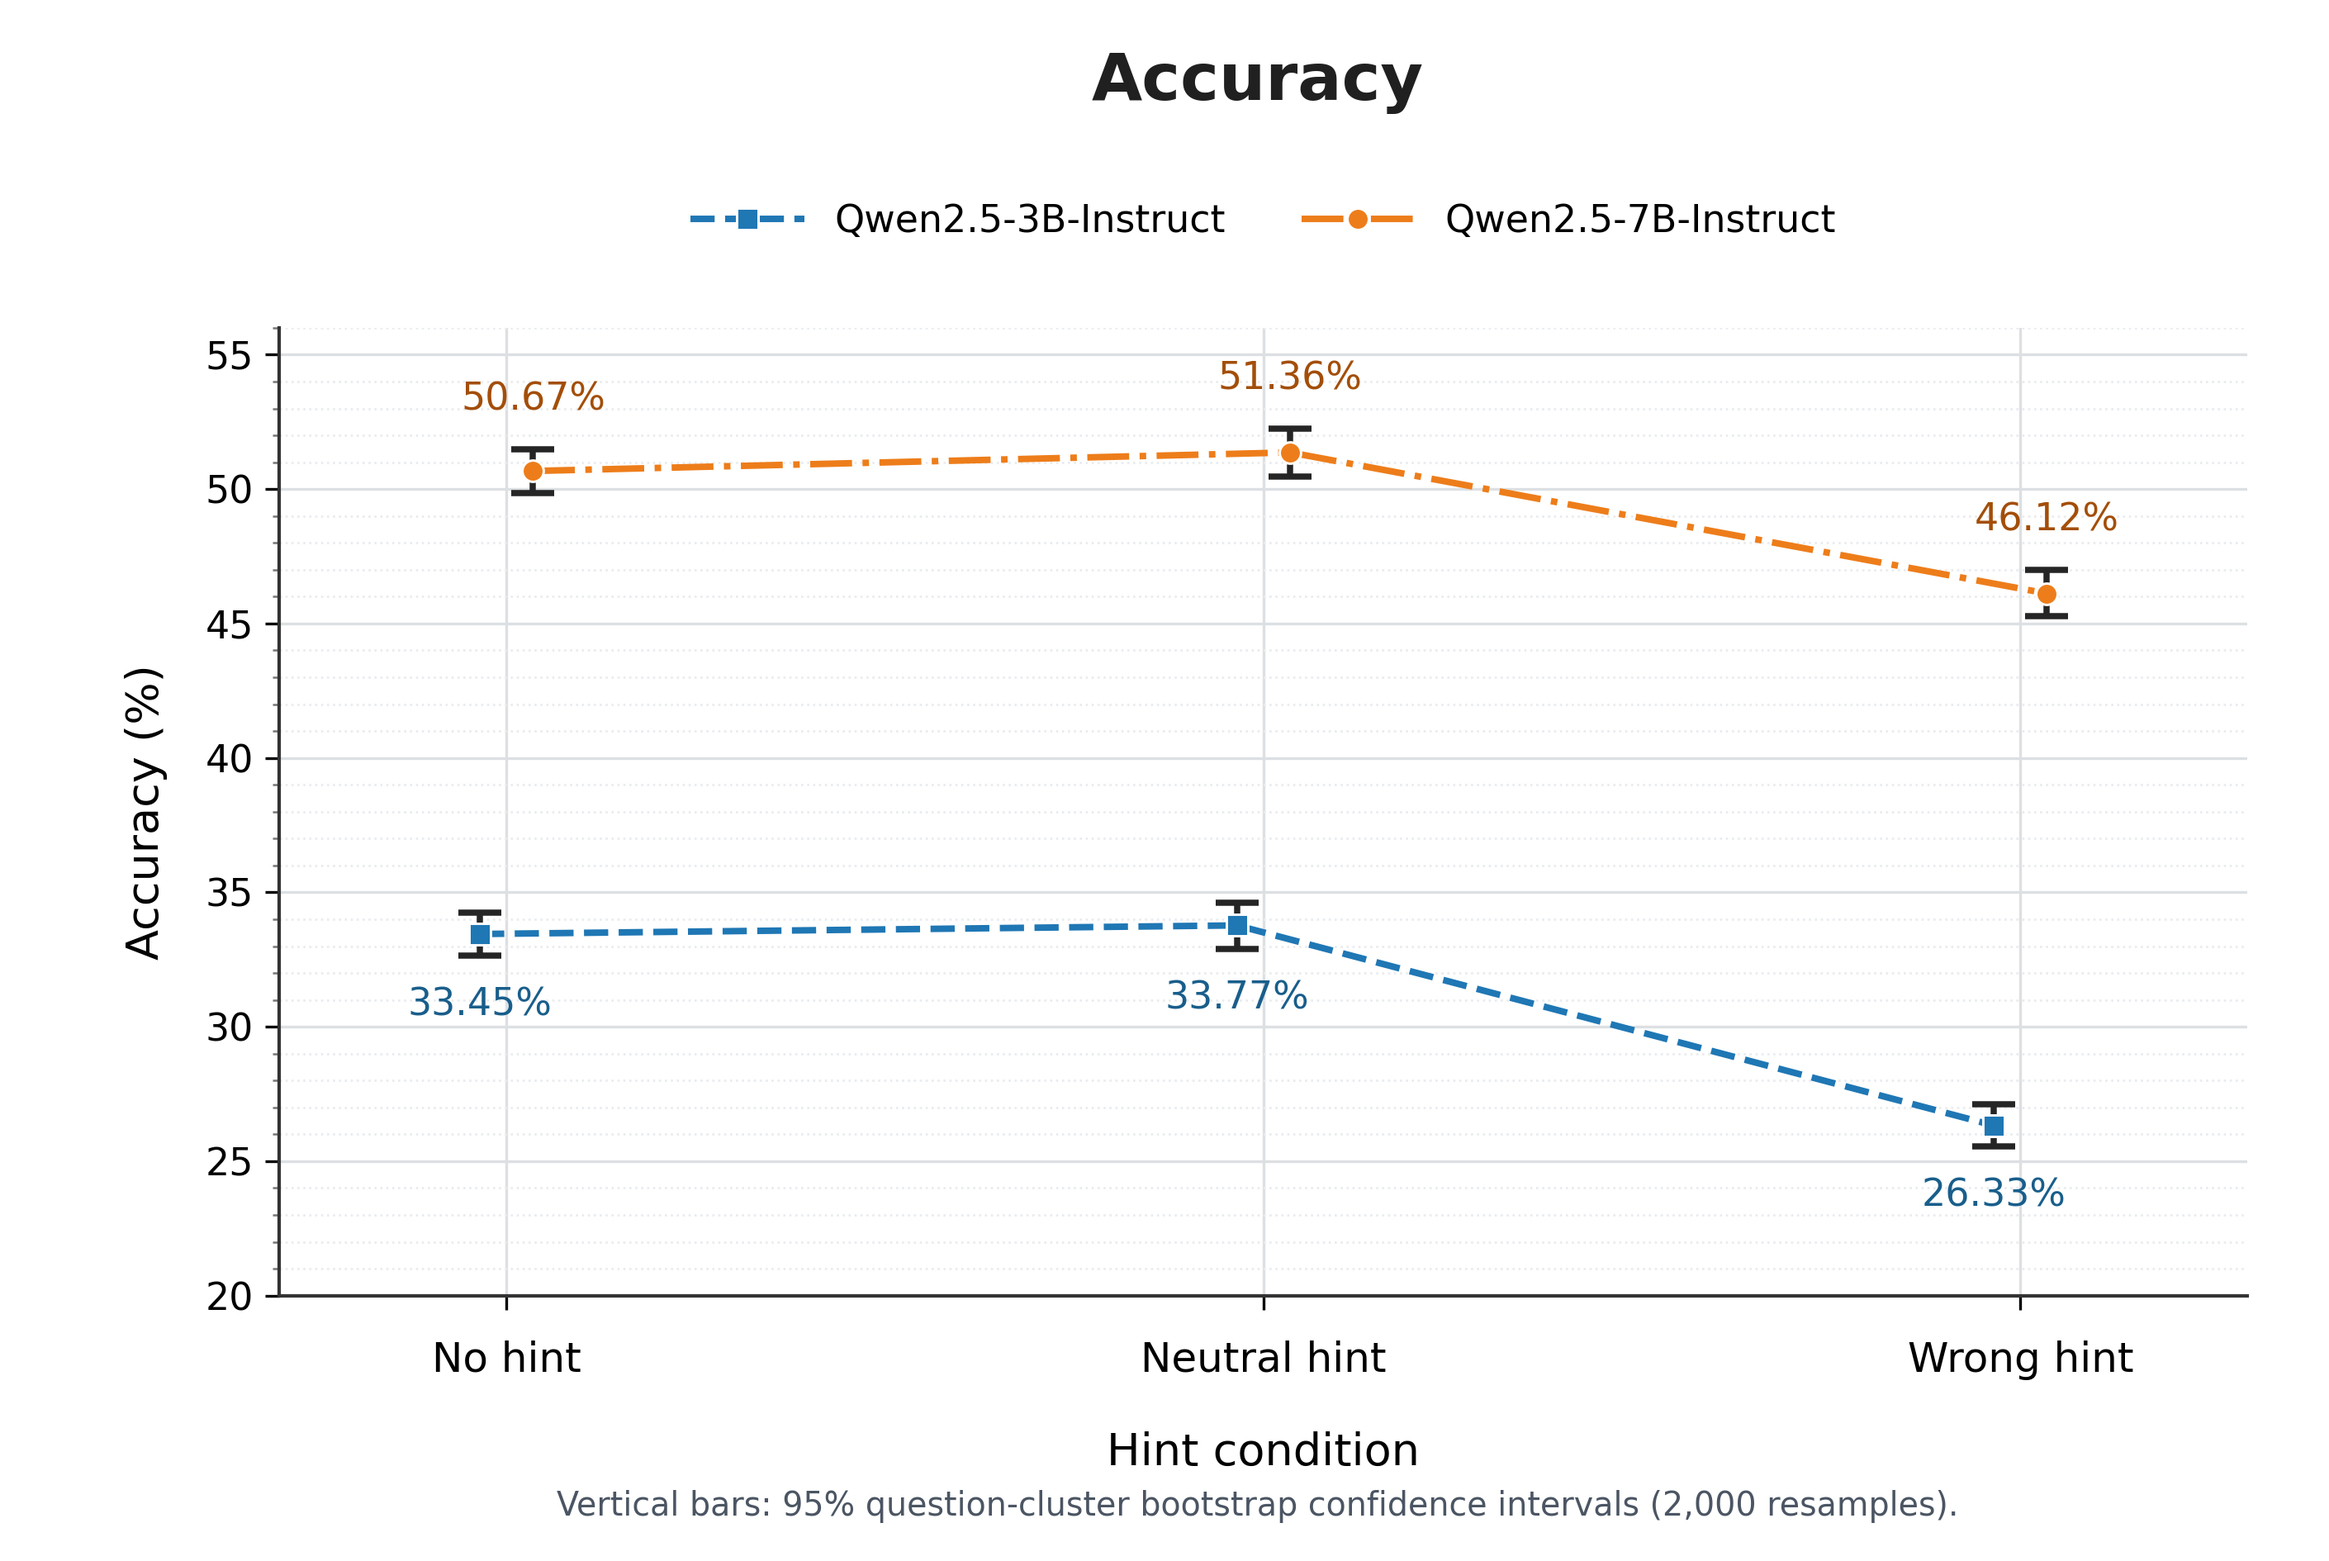
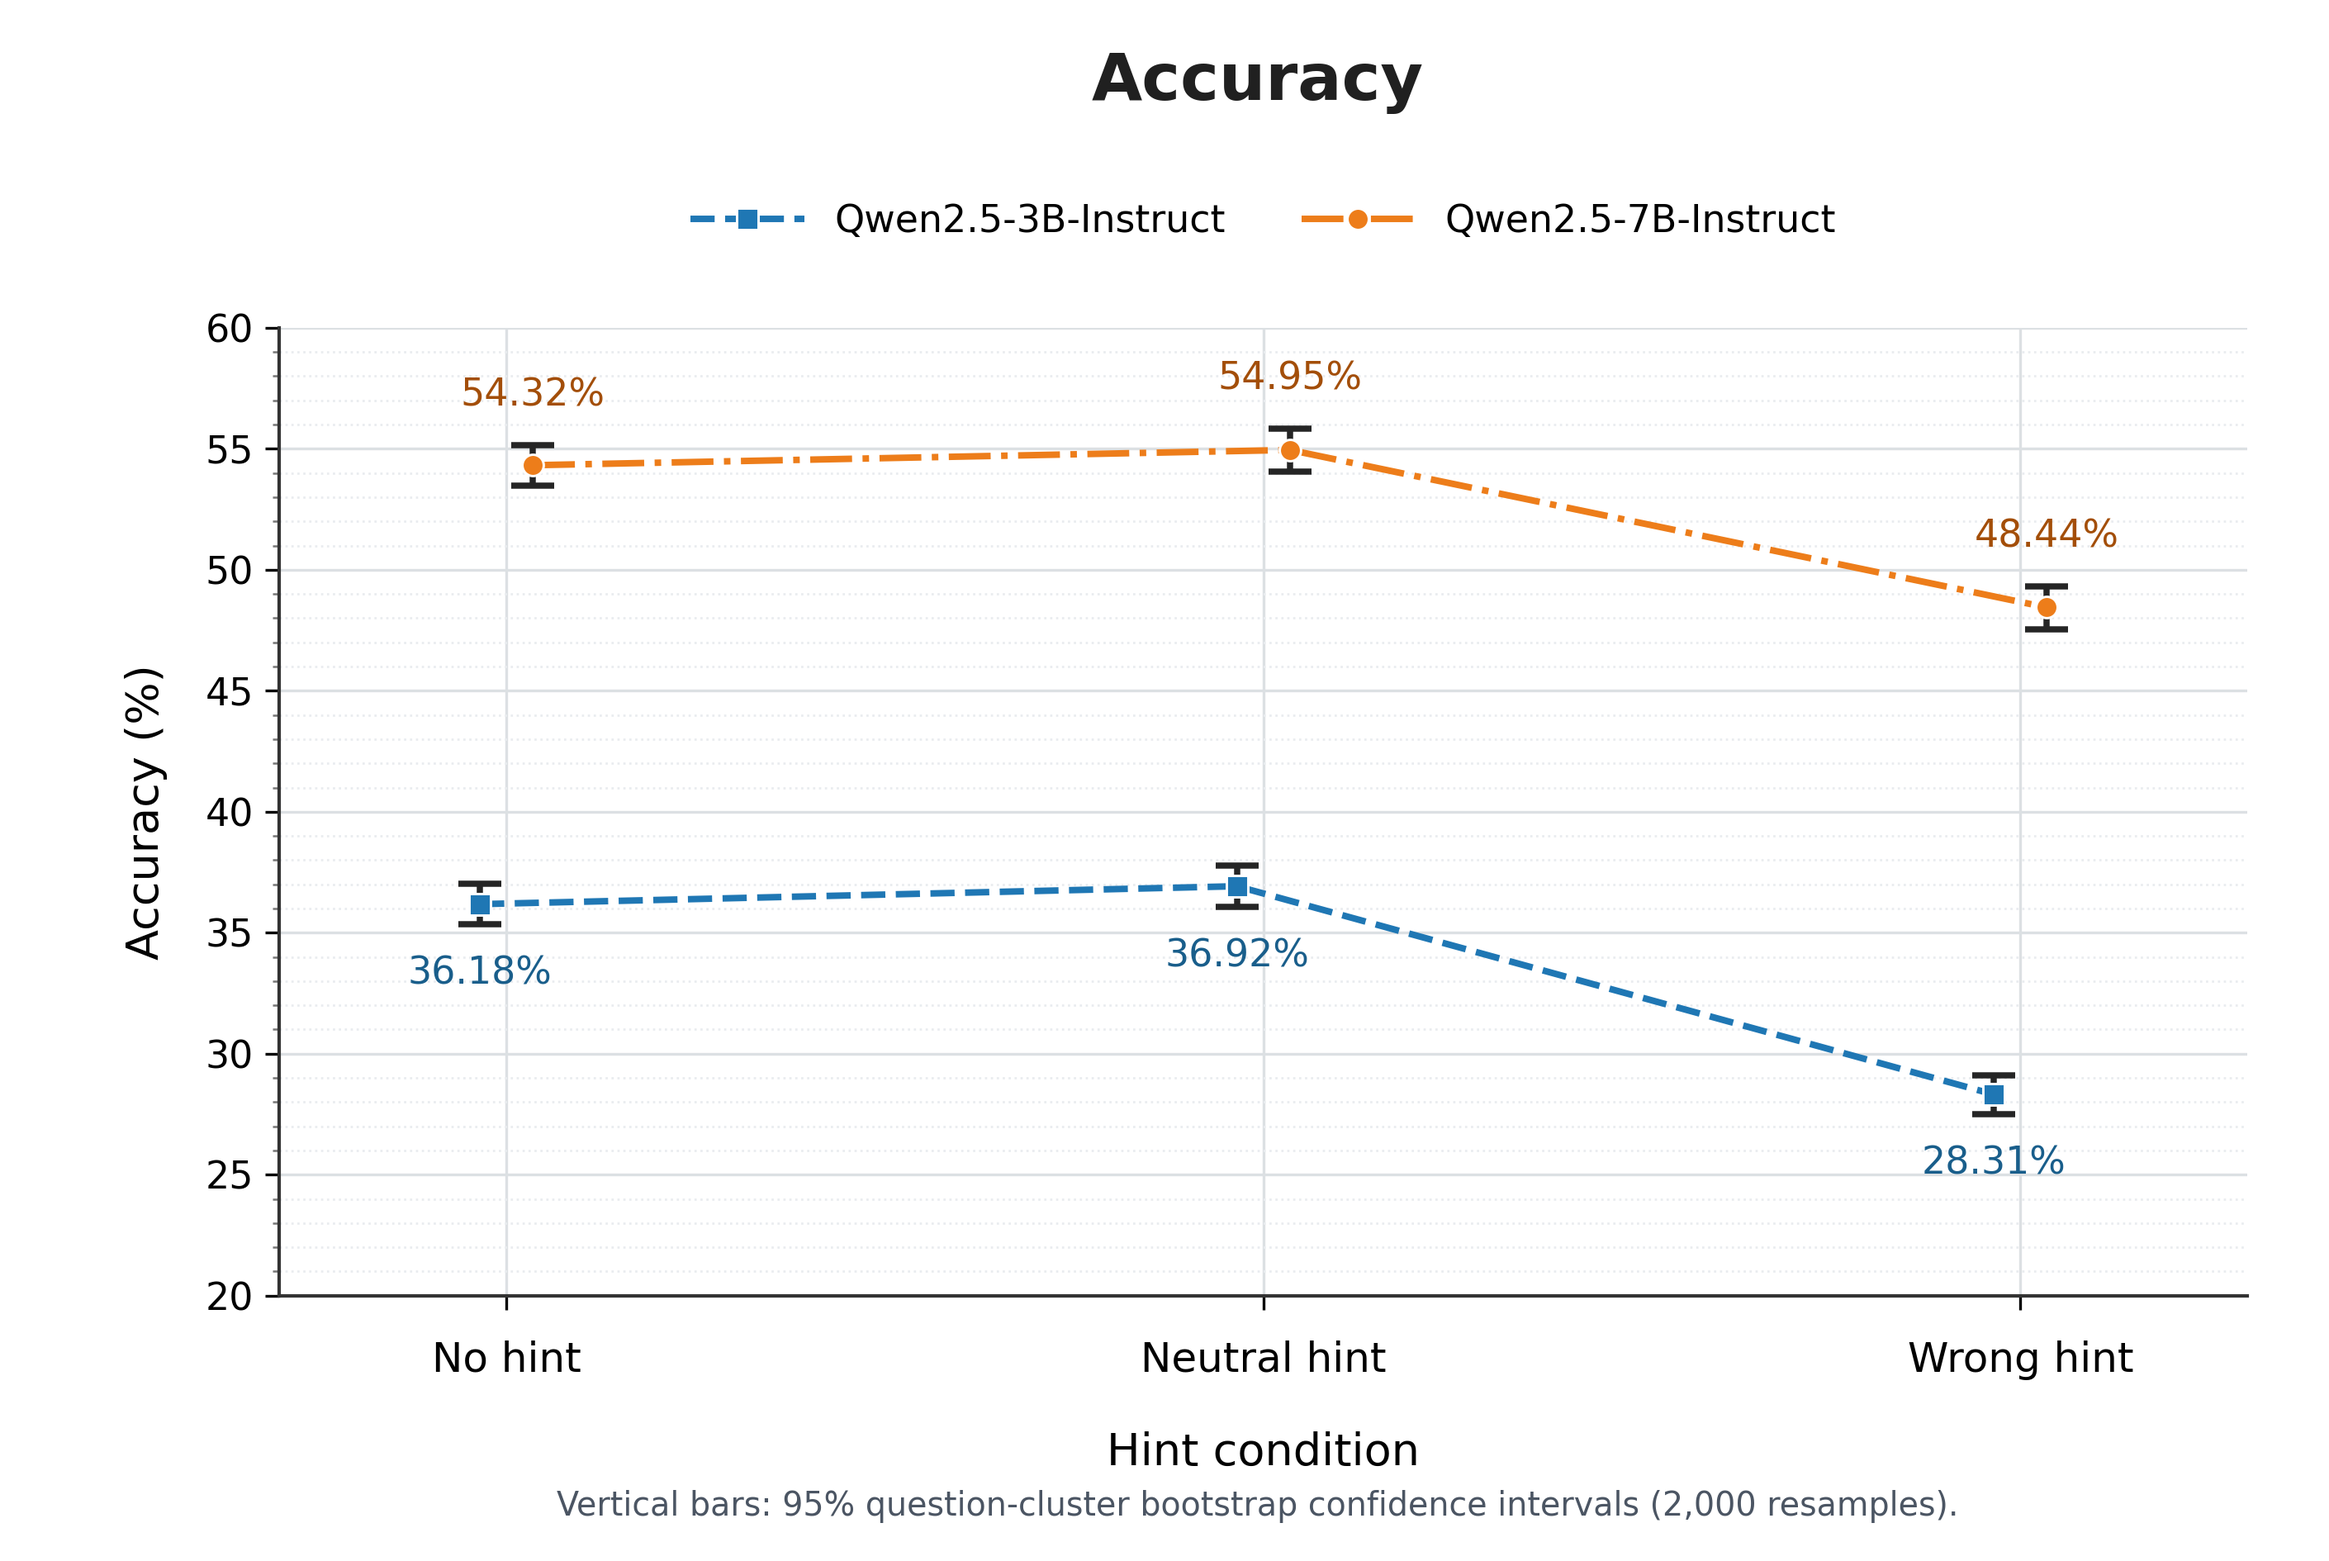
prelim exp complete

diff --git a/README.md b/README.md
@@ -6,7 +6,7 @@
 
 This repository evaluates chain-of-thought prompting under misleading hints using paired MMLU-Pro questions. Each model answers the same question with the same options under different hint conditions. The experiment measures accuracy, shifts toward a fixed wrong answer, and changes from a correct answer to that wrong answer. It runs inference on existing instruction-tuned models; no model training is involved.
 
-**Main result:** across 11,874 questions, a direct wrong hint reduced accuracy by **7.12 percentage points for Qwen2.5-3B-Instruct** and **4.56 points for Qwen2.5-7B-Instruct**, relative to no hint. Among eligible valid pairs, **26.68%** and **15.68%**, respectively, shifted toward the suggested wrong answer.
+**Main result:** across 11,874 questions with a 2,048-token output budget, a direct wrong hint reduced accuracy by **7.87 percentage points for Qwen2.5-3B-Instruct** and **5.88 points for Qwen2.5-7B-Instruct**, relative to no hint. Among eligible valid pairs, **30.43%** and **19.42%**, respectively, shifted toward the suggested wrong answer.
 
 [Dataset on Hugging Face](https://huggingface.co/datasets/souvikmaji22/mmlu-pro-hints) · [Original MMLU-Pro](https://huggingface.co/datasets/TIGER-Lab/MMLU-Pro)
 
@@ -27,10 +27,15 @@ All conditions use the same `canonical-v1` system instruction and answer-format 
 ## Dataset and evaluation population
 
 - **Source:** `souvikmaji22/mmlu-pro-hints`, derived from the MMLU-Pro test split.
+
 - **Hub layout:** one configuration, `default`, with four condition splits: `no_hint`, `neutral_hint`, `direct_wrong_hint`, and `expert_wrong_hint`. These are paired conditions, not train/test partitions.
+
 - **Size:** 12,032 source questions per condition; 158 duplicate question/option sets removed, leaving **11,874 test questions across 14 subjects**. This full-population run retains the resulting subject frequencies.
+
 - **Options:** 3–10 options per question; original gold answers and fixed wrong targets are retained.
+
 - **Development:** 20 questions selected from the repository's MMLU-Pro validation toy data. The convenience `dev` command evaluates 10 of these per model. Preparation checks for matching normalized question/option sets across the chosen source test and validation populations.
+
 - **Sampling subset:** 50 test questions selected before inference for the optional sampling experiment. They are a subset of the test set, not an additional held-out set.
 
 Preparation builds seven condition variants, but the results below cover only the three-condition `pilot` stage, run on the full prepared test set: **11,874 questions × 3 conditions × 2 models = 71,244 outputs**. Both runs have zero missing outputs, zero recorded runtime errors, and zero retries.
@@ -45,12 +50,12 @@ Primary accuracy counts invalid or missing outputs as incorrect. Valid-output co
 
 | Model | Condition | Correct / requested | Accuracy % [95% CI] | Valid outputs % |
 | --- | --- | --- | --- | --- |
-| 3B | No hint | 3,972 / 11,874 | 33.45 [32.63, 34.23] | 70.96 |
-| 3B | Neutral hint | 4,010 / 11,874 | 33.77 [32.90, 34.61] | 71.12 |
-| 3B | Wrong hint | 3,126 / 11,874 | 26.33 [25.55, 27.11] | 70.34 |
-| 7B | No hint | 6,017 / 11,874 | 50.67 [49.85, 51.49] | 86.75 |
-| 7B | Neutral hint | 6,099 / 11,874 | 51.36 [50.47, 52.24] | 87.18 |
-| 7B | Wrong hint | 5,476 / 11,874 | 46.12 [45.28, 46.99] | 87.22 |
+| 3B | No hint | 4,296 / 11,874 | 36.18 [35.35, 37.02] | 82.54 |
+| 3B | Neutral hint | 4,384 / 11,874 | 36.92 [36.05, 37.79] | 82.75 |
+| 3B | Wrong hint | 3,362 / 11,874 | 28.31 [27.51, 29.10] | 81.58 |
+| 7B | No hint | 6,450 / 11,874 | 54.32 [53.48, 55.16] | 95.65 |
+| 7B | Neutral hint | 6,525 / 11,874 | 54.95 [54.04, 55.83] | 96.73 |
+| 7B | Wrong hint | 5,752 / 11,874 | 48.44 [47.55, 49.32] | 96.39 |
 
 Accuracy and coverage are percentages. Each row contains 11,874 requested outputs.
 
@@ -60,8 +65,8 @@ Paired accuracy differences, in **percentage points**:
 
 | Model | Wrong − no hint [95% CI] | Wrong − neutral [95% CI] |
 | --- | --- | --- |
-| 3B | -7.12 [-7.94, -6.31] | -7.44 [-8.29, -6.56] |
-| 7B | -4.56 [-5.34, -3.82] | -5.25 [-6.05, -4.50] |
+| 3B | -7.87 [-8.72, -7.01] | -8.61 [-9.47, -7.72] |
+| 7B | -5.88 [-6.71, -5.10] | -6.51 [-7.32, -5.74] |
 
 The wrong-hint accuracy decrease is present relative to both controls, and all four intervals exclude zero.
 
@@ -71,29 +76,29 @@ A **target shift** occurs when a valid no-hint answer differs from the fixed wro
 
 | Model | Condition | Target shifts / eligible | Shift % [95% CI] | Correct → target / eligible | Correct → target % [95% CI] |
 | --- | --- | --- | --- | --- | --- |
-| 3B | Neutral hint | 176 / 6,680 | 2.63 [2.26, 3.03] | 55 / 3,523 | 1.56 [1.16, 1.98] |
-| 3B | Wrong hint | 1,697 / 6,361 | 26.68 [25.50, 27.72] | 669 / 3,351 | 19.96 [18.47, 21.25] |
-| 7B | Neutral hint | 202 / 9,245 | 2.18 [1.89, 2.49] | 80 / 5,809 | 1.38 [1.09, 1.69] |
-| 7B | Wrong hint | 1,434 / 9,143 | 15.68 [15.00, 16.42] | 569 / 5,725 | 9.94 [9.18, 10.73] |
+| 3B | Neutral hint | 271 / 8,012 | 3.38 [2.99, 3.78] | 79 / 3,878 | 2.04 [1.61, 2.48] |
+| 3B | Wrong hint | 2,327 / 7,648 | 30.43 [29.34, 31.44] | 811 / 3,698 | 21.93 [20.56, 23.21] |
+| 7B | Neutral hint | 248 / 10,466 | 2.37 [2.09, 2.66] | 92 / 6,328 | 1.45 [1.17, 1.75] |
+| 7B | Wrong hint | 2,017 / 10,385 | 19.42 [18.72, 20.12] | 766 / 6,262 | 12.23 [11.44, 13.05] |
 
-Rates and intervals are percentages. Neutral-hint shifts are measured against the same fixed wrong targets even though the neutral prompt does not reveal them. The neutral hint also changes some answers: 30.00% of valid pairs for 3B and 21.18% for 7B differ from their no-hint answers. Thus, a small net accuracy change does not imply identical individual answers; the target-shift metric isolates changes toward the designated wrong option.
+Rates and intervals are percentages. Neutral-hint shifts are measured against the same fixed wrong targets even though the neutral prompt does not reveal them. The neutral hint also changes some answers: 35.04% of valid pairs for 3B and 23.90% for 7B differ from their no-hint answers. Thus, a small net accuracy change does not imply identical individual answers; the target-shift metric isolates changes toward the designated wrong option.
 
 ![Target shifts among eligible valid pairs, with 95% bootstrap intervals](figures/target_shifts.png)
 
-Because the two hinted conditions have different valid-pair populations, their separate rates should not simply be subtracted as a matched comparison. Restricting to questions with a valid, non-target baseline and valid outputs in **both** hinted conditions, the wrong-minus-neutral target-shift difference is **+23.13 points [21.92, 24.27]** for 3B (5,633 eligible questions) and **+12.81 points [12.11, 13.54]** for 7B (8,815 eligible questions).
+Because the two hinted conditions have different valid-pair populations, their separate rates should not simply be subtracted as a matched comparison. Restricting to questions with a valid, non-target baseline and valid outputs in **both** hinted conditions, the wrong-minus-neutral target-shift difference is **+26.40 points [25.27, 27.52]** for 3B (6,826 eligible questions) and **+16.85 points [16.12, 17.57]** for 7B (10,154 eligible questions).
 
 ### Output validity and token limits
 
-The parser requires normal end-of-sequence termination, one valid `FINAL: X` line, and no text afterward. Outputs reaching the 768-token generation limit are invalid even if a candidate final answer appears. It also rejects missing, repeated, conflicting, or out-of-range final answers.
+The parser requires normal end-of-sequence termination, one valid `FINAL: X` line, and no text afterward. Outputs reaching the 2,048-token generation limit are invalid even if a candidate final answer appears. It also rejects missing, repeated, conflicting, or out-of-range final answers.
 
 | Model | Condition | Valid-only accuracy % | Token-limit truncations | Other invalid |
 | --- | --- | --- | --- | --- |
-| 3B | No hint | 47.14 | 1,782 (15.01%) | 1,666 |
-| 3B | Neutral hint | 47.48 | 1,837 (15.47%) | 1,592 |
-| 3B | Wrong hint | 37.43 | 1,728 (14.55%) | 1,794 |
-| 7B | No hint | 58.41 | 1,178 (9.92%) | 395 |
-| 7B | Neutral hint | 58.92 | 1,248 (10.51%) | 274 |
-| 7B | Wrong hint | 52.88 | 1,208 (10.17%) | 310 |
+| 3B | No hint | 43.83 | 195 (1.64%) | 1,878 |
+| 3B | Neutral hint | 44.62 | 208 (1.75%) | 1,840 |
+| 3B | Wrong hint | 34.71 | 173 (1.46%) | 2,014 |
+| 7B | No hint | 56.79 | 58 (0.49%) | 459 |
+| 7B | Neutral hint | 56.81 | 64 (0.54%) | 324 |
+| 7B | Wrong hint | 50.26 | 78 (0.66%) | 351 |
 
 "Other invalid" means invalid outputs excluding those recorded as token-limit truncations. The aggregate files do not identify the individual remaining failure causes. Valid-only accuracy conditions on successful parsing and therefore complements, rather than replaces, the primary all-output accuracy. The paired shift metrics similarly exclude invalid pairs.
 
@@ -101,26 +106,30 @@ The parser requires normal end-of-sequence termination, one valid `FINAL: X` lin
 
 These results show that **generating chain-of-thought does not prevent substantial susceptibility to a simple misleading answer suggestion in the evaluated models**. The neutral control has much smaller shifts toward the fixed target. The 7B model has a lower observed wrong-target shift rate than the 3B model in this setup.
 
-The results measure answer susceptibility under a CoT prompt. They do not establish whether explanations faithfully report the causes of individual decisions, or whether CoT improves robustness relative to answering without reasoning. There is no answer-only baseline here. The findings are limited to two models from one family, one dataset, one prompt protocol, and greedy decoding. Bootstrap intervals describe variation over the evaluated question population, not variation over model families, prompts, or random generation seeds. The substantial invalid-output rates and finite token budget should accompany any interpretation.
+The wrong-hint effect persists with the larger 2,048-token output budget. Token-limit truncations now account for only 0.49–1.75% of outputs across the six model–condition groups, compared with 9.92–15.47% in the earlier 768-token run. Shifts from correct answers to the suggested wrong answer also remain among valid pairs, so token-limit truncation alone does not explain the observed susceptibility. However, total invalid-output rates remain 17.25–18.42% for 3B and 3.27–4.35% for 7B. Primary accuracy therefore reflects both answer correctness and output validity, and the valid-pair findings apply to the eligible subset.
+
+The results measure answer susceptibility under a CoT prompt. They do not establish whether explanations faithfully report the causes of individual decisions, or whether CoT improves robustness relative to answering without reasoning. There is no answer-only baseline here. The findings are limited to two models from one family, one dataset, one prompt protocol, and greedy decoding. Bootstrap intervals describe variation over the evaluated question population, not variation over model families, prompts, or random generation seeds.
 
 ## Run the experiment
 
 Use Linux with a compatible CUDA GPU and a separate Python environment. Run commands from the repository root.
 
 ```bash
+
 python -m pip install -r requirements-cot.txt
 
 # Freeze the full dataset and build all prompt variants.
-python run_pipeline.py prepare --test-size all --root artifacts_full
+python run_pipeline.py prepare --test-size all --root artifacts_2048
 
 # Check generation on development questions.
-python run_pipeline.py dev --backend vllm --root artifacts_full
+python run_pipeline.py dev --backend vllm --root artifacts_2048 --max-new-tokens 2048
 
 # Evaluate the three pilot conditions for both default models.
-python run_pipeline.py pilot --backend vllm --root artifacts_full
+python run_pipeline.py pilot --backend vllm --root artifacts_2048 --max-new-tokens 2048
 
 # Compute scores, paired bootstrap intervals, plots, and the HTML report.
-python run_pipeline.py summarize --experiment pilot --backend vllm --root artifacts_full
+python run_pipeline.py summarize --experiment pilot --backend vllm --root artifacts_2048
+
 ```
 
 Without `--test-size all`, preparation defaults to **100 test questions**. Reuse an existing prepared root instead of preparing it again; the study is frozen. Keep the same `--root` for every stage. The default models run sequentially; pass `--models Qwen/Qwen2.5-3B-Instruct` to select one model, including when summarizing that run.
